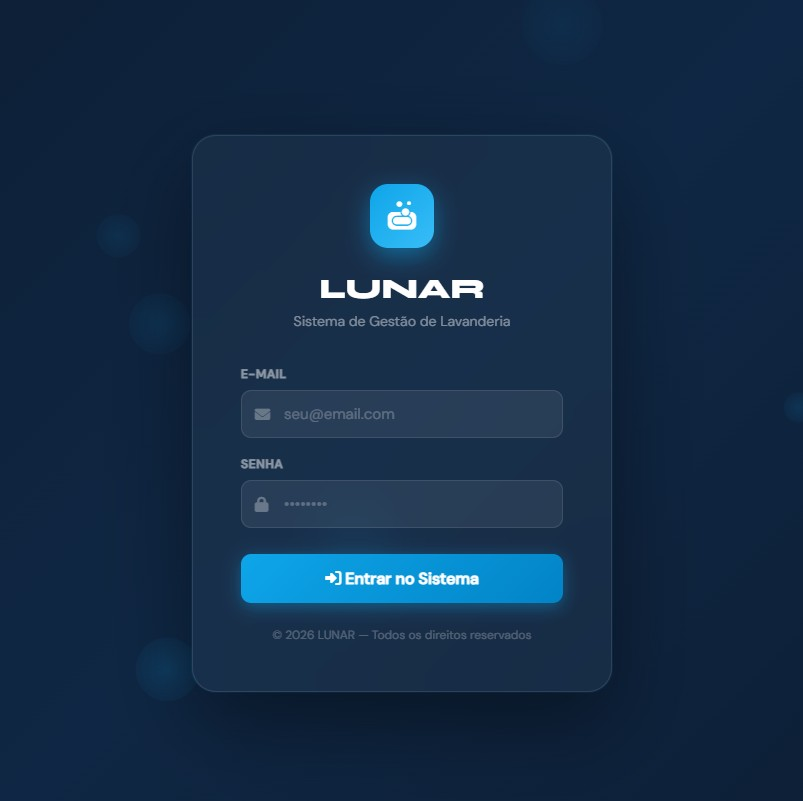
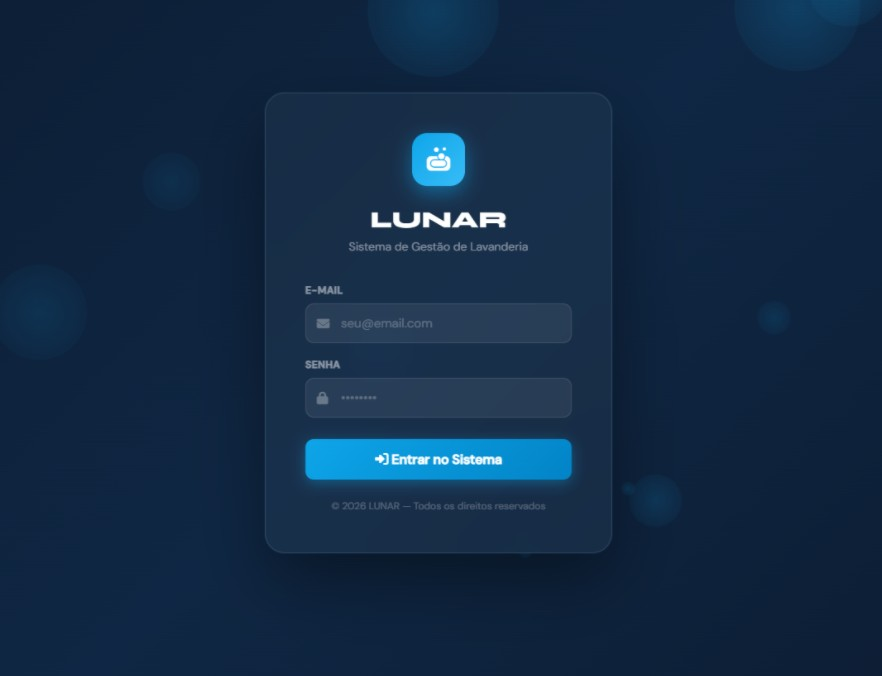
1444408

diff --git a/index.html b/index.html
@@ -607,7 +607,7 @@ const SITE = {
     endereco: "Rua Olivia Maria de Jesus, 1900 - bloco 6 - Ribeirão Preto/SP",
     telefone: "(16) 97406-4444",
     whatsapp: "(11) 97547-5607",
-    email: "",
+    email:    "atendimento@lunaradvance.com.br",
 	
     instagram: "https://instagram.com/",
     linkedin: "https://linkedin.com/",
@@ -729,7 +729,7 @@ const SITE = {
       {
         nome:"Profissional", destaque:true, tag:"      PROMOÇÃO POR TEMPO LIMITADO!!!",
         descricao:"Contrato anual com renovação em concordância das partes.",
-        preco:"430", periodo:"/mês",
+        preco:"350", periodo:"/mês",
         recursos:["Gerenciamento e operação dos pedidos","Relatórios e gráficos completos","Rastreamento por GPS das coletas e entregas","App para o cliente","Quantidade ilimitada de usuários","Suporte prioritário (10x6 no primeiro mês, 3x6 em diante)"],
         cta:"Agendar demonstração",
       },
